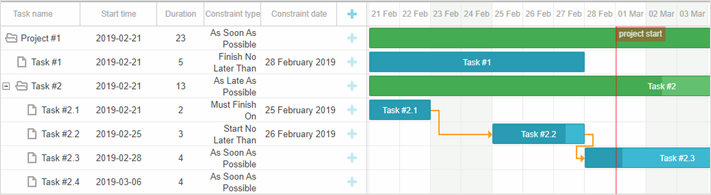
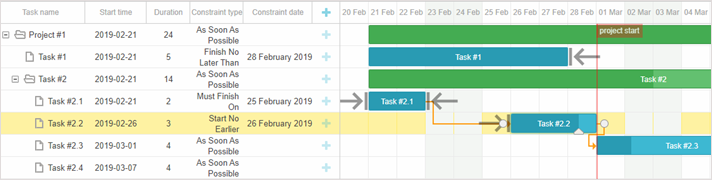
[update] docs for version 6.1

diff --git a/data/desktop/auto_scheduling.md b/data/desktop/auto_scheduling.md
@@ -61,7 +61,7 @@ gantt.config.auto_scheduling = true;
 
 ###Strict mode
 
-By default, tasks are rescheduled only when a new date violates the constraint. 
+By default, tasks are rescheduled only when a new date violates the constraint.
 In order to always reschedule tasks to the earliest possible date, use the property api/gantt_auto_scheduling_strict_config.md:
 
 ~~~js
@@ -90,7 +90,7 @@ If you need to recalculate the schedule starting from a particular task, pass th
 gantt.autoSchedule(taskId);
 ~~~
 
-###Checking whether a task is unscheduled 
+###Checking whether a task is unscheduled
 
 In case you need to check whether the task is unscheduled, use the api/gantt_isunscheduledtask.md method with the task object as an argument:
 
@@ -138,7 +138,7 @@ The list of available events is given below:
 ~~~js
 // before auto scheduling starts
 gantt.attachEvent("onBeforeAutoSchedule",function(taskId){
-    // any custom logic here   
+    // any custom logic here
     return true;
 });
 
@@ -175,7 +175,7 @@ Lag and lead times are special values that are used to create complex relations 
 
 Lag is a delay between tasks which are linked by a dependency. Lead is an overlap between tasks which are linked by a dependency.
 
-There can be two types of successor tasks: 
+There can be two types of successor tasks:
 
 - a task that can start before its predecessor task's end (task B starts before task A is finished)
 
@@ -194,21 +194,21 @@ By default, it's implied that the lag value of each dependency link is set as 0.
 
 ###Editing link values from UI
 
-Gantt doesn't provide a built-in UI for editing lag or any other properties of the link. However, you can implement it manually by following the recommendations given in the 
+Gantt doesn't provide a built-in UI for editing lag or any other properties of the link. However, you can implement it manually by following the recommendations given in the
 [related chapter](desktop/crud_dependency.md#editinglinkvaluesfromui).
 
 {{editor	http://snippet.dhtmlx.com/7c812e5bd		 Edit-lag Popup}}
 
 
-Time constraints for tasks
------------------------- 
-dhtmlxGantt provides the possibility to set additional time constraints for tasks. When time constraints are set for tasks, auto scheduling functionality works taking them into account. 
+## Time constraints for tasks
+
+dhtmlxGantt provides the possibility to set additional time constraints for tasks.
 
 {{note Time constraints are applicable only to tasks and [milestones](desktop/milestones.md). Projects are not affected by them.}}
 
 ### Setting constraints via lightbox
 
-You can specify contraints for a task via the [**Contraint** control](desktop/constraint.md) in the lightbox of a task. 
+You can specify contraints for a task via the [**Contraint** control](desktop/constraint.md) in the lightbox of a task.
 
 ![Inbuilt datepicker for constraints](desktop/inbuilt_constraint_datepicker.png)
 
@@ -220,13 +220,13 @@ gantt.config.lightbox.sections = [
 ];
 ~~~
 
-### Setting constraints via inline editors 
+### Setting constraints via inline editors
 
 It is also possible to [specify separate columns for the type of constraint and its date in the grid](desktop/specifying_columns.md#timeconstraintsfortasks) and use inline editors to define constraints for tasks.
 
 ![Constraints columns](desktop/constraints_columns.png)
 
-Use the **constraint_type** and **constraint_date** columns' names, correspondingly. 
+Use the **constraint_type** and **constraint_date** columns' names, correspondingly.
 
 ~~~js
 var constraintTypeEditor = {
@@ -238,25 +238,25 @@ var constraintTypeEditor = {
 	]
 };
 
-var constraintDateEditor = { 
-	type: "date", 
-    map_to: "constraint_date", 
-    min: new Date(2019, 0, 1), 
-    max: new Date(2020, 0, 1) 
+var constraintDateEditor = {
+    type: "date",
+    map_to: "constraint_date",
+    min: new Date(2019, 0, 1),
+    max: new Date(2020, 0, 1)
 };
 
 gantt.config.columns = [
-	{ // previous column}, 
+	{ // previous column},
 	{
-	  name:"constraint_type", align:"center", width:100, template:function (task){
+		name:"constraint_type", align:"center", width:100, template:function (task){
 			return gantt.locale.labels[gantt.getConstraintType(task)];
 		}, resize: true, editor: constraintTypeEditor
 	},
 	{
-	  name:"constraint_date", align:"center", width:120, template:function (task) {
-       //template logic
-      }, 
-      resize: true, editor: constraintDateEditor
+		name:"constraint_date", align:"center", width:120, template:function (task) {
+		//template logic
+		},
+		resize: true, editor: constraintDateEditor
 	},
 	{ name: "add", width: 44 }
 ];
@@ -271,7 +271,7 @@ There are several types of time constraints:
 
 1\. **As soon as possible** - If this constraint is set to an independent task, the task starts at the same time that the project does. If this constraint is set to a dependent task, the task starts as soon as its predecessor tasks end.
 
-2\. **As late as possible** - If this constraint is set to an independent task, the task ends at the same time that the project does. If this constraint is set to a dependent task, the end of the task coincides with 
+2\. **As late as possible** - If this constraint is set to an independent task, the task ends at the same time that the project does. If this constraint is set to a dependent task, the end of the task coincides with
 the start of its immediate successor task.
 
 The other types of constraints affect tasks regardless of the their types (dependent or independent):
@@ -286,7 +286,7 @@ The other types of constraints affect tasks regardless of the their types (depen
 
 7\. **Must start on** – the task should start exactly on the specified date.
 
-8\. **Must finish on** – the task should end exactly on the specified date. 
+8\. **Must finish on** – the task should end exactly on the specified date.
 
 
 ### Strategies of projects planning
@@ -294,9 +294,11 @@ The other types of constraints affect tasks regardless of the their types (depen
 There are two strategies of planning tasks within a project: forward and backward planning. They are defined by combinations of configuration settings:
 
 - **gantt.config.schedule_from_end** - (*boolean*) defines the type of the planning strategy
-- **gantt.config.project_start** - (*Date*) the start date of a project; used as a start date of tasks by default, if forward planning is applied, *null* by default 
-- **gantt.config.project_end** - (*Date*) the end date of a project; used for the default time of tasks, if backward planning is used, *null* by default 
+- **gantt.config.project_start** - (*Date*) the start date of a project; used as a start date of tasks by default, if forward planning is applied, *null* by default
+- **gantt.config.project_end** - (*Date*) the end date of a project; used for the default time of tasks, if backward planning is used, *null* by default
 
+
+## Backward scheduling
 
 ####Forward planning
 
@@ -319,26 +321,33 @@ gantt.config.project_start = new Date(2019, 2, 1);
 
 ####Backward planning
 
-It is also possible to plan tasks from the end of the project, i.e. to apply backward planning. For this you need to set the **gantt.config.schedule_from_end** property to *true* and specify the end date of the project 
+Is also possible to plan tasks from the end of the project, i.e. to apply backward planning. For this you need to set the **gantt.config.schedule_from_end** property to *true* and specify the end date of the project
 via the **gantt.config.project_end** configuration option:
 
 ~~~js
-// backward planning of tasks is used
 gantt.config.schedule_from_end = true;
 gantt.config.project_end = new Date(2019, 4, 1);
 ~~~
 
-In this case tasks are planned *as late as possible*. The last task should end on the end date of the project.
+In this case tasks are planned as late as possible. The last task should end on the end date of the project.
 
 {{sample 02_extensions/20_backwards_scheduling.html}}
 
-When a user changes the date of a task by moving it with the mouse pointer or via the lightbox, the task automatically receives one of the two constraint types: either **start no earlier than+%start date%** or 
-**finish no later than+%end date%**, depending on the chosen planning strategy. So a task won't be moved to the start/end of the project automatically, which reproduces auto planning in MS Project.
 
+## Version compatibility
 
-### Backward compatibility
+When a user changes the date of a task by moving it with the mouse pointer or via the lightbox, the task automatically receives one of the two constraint types: either **start no earlier than+%start date%** or
+**finish no later than+%end date%**, depending on the chosen planning strategy.
 
-You can disable the time constraints feature to use the default auto scheduling functionality, by setting:
+Thus a task won't be scheduled to the earliest date if the later date is set from the UI. This may be confusing to a not prepared user especially since constraints are not displayed in the chart by default.
+
+You can enable constraint display using api/gantt_addtasklayer.md method.
+
+{{sample 02_extensions/19_constraints_scheduling.html}}
+
+This behavior differs from the auto scheduling logic of gantt prior to **v6.1** and is considered to be correct, since it's the same way auto planning works in MS Project.
+
+If that is not what you want, you can switch back to pre-6.1 auto scheduling by disabling constraints:
 
 ~~~js
 gantt.config.auto_scheduling_compatibility = true;
@@ -349,7 +358,3 @@ gantt.config.auto_scheduling_compatibility = true;
 	api/gantt_auto_scheduling_config.md
 
 @edition:pro
-
-@todo: 
-- update the image for columns types<br>
-- Backward compatibility is repeated in migration

diff --git a/data/desktop/tooltips.md b/data/desktop/tooltips.md
@@ -97,7 +97,7 @@ adds a tooltip for the specified Gantt element. It is a more simplified version 
 	and returns a string with a template.
 - **global** - (*boolean*) optional, defines whether the module listens to mouse events on the whole page (*true*) or only inside a gantt element (*false*). By default the option is set to *false*. 
 
-#### gantt.ext.tooltips.detach() 
+<h4 id="detach">gantt.ext.tooltips.detach()</h4> 
 
 removes tooltip. As a parameter the method takes:
 
@@ -107,23 +107,24 @@ removes tooltip. As a parameter the method takes:
 Tooltips for different elements
 -------------------------
 
-By default, tooltips are added just to the Gantt tasks, but you can also set tooltips for any other Gantt element. There are two corresponding methods in the tooltip API for this purpose:
+By default, tooltips are added just to the Gantt tasks, but you can also set tooltips for any other Gantt element. For example, for a resource marker:
+
+![Resource marker tooltip](desktop/resource_marker_tooltip.png)
+
+
+There are two corresponding methods in the tooltip API for this purpose:
 
 - the [**gantt.ext.tooltips.tooltipFor()**](#tooltipfor) method 
 
 For example, this is how you can add tooltips for cells of the timeline scale:
 
 ~~~js
-gantt.ext.tooltips.tooltipFor({
-  selector:".gantt_scale_cell",
-  html:function (event, node) {
-    var relativePosition = gantt.utils.dom.getRelativeEventPosition(event, gantt.$task_scale);
-    return gantt.templates.task_date(gantt.dateFromPos(relativePosition.x));
-  }
-});
+var domHelper = gantt.utils.dom;
+var pos = domHelper .getRelativeEventPosition(event, gantt.$task_scale);
+return gantt.templates.task_date(gantt.dateFromPos(pos.x));
 ~~~
 
-{{sample 02_extensions/19_tooltip_api.html}}
+{{sample 02_extensions/22_tooltip_api.html}}
 
 A tooltip added in this way will follow the mouse pointer and use the settings *api/gantt_tooltip_offset_x_config.md*, *api/gantt_tooltip_offset_y_config.md*, *api/gantt_tooltip_timeout_config.md*,
 api/gantt_tooltip_hide_timeout_config.md.
@@ -137,14 +138,14 @@ Customization of tooltip behavior
 
 There is a possibility to modify the default behavior of tooltip. It can be achieved by removing the default tooltip handler and adding a custom one:
 
-- Remove the built-in tooltip handler from tasks with the **gantt.ext.tooltips.detach** method:
+- Remove the built-in tooltip handler from tasks with the [**gantt.ext.tooltips.detach**](#detach) method:
 
 ~~~js
 // remove the built-in tooltip handler from tasks
 gantt.ext.tooltips.detach("["+gantt.config.task_attribute+"]:not(.gantt_task_row)");
 ~~~
 
-- Add the desired tooltip behavior via the **gantt.ext.tooltips.tooltipFor()** method. In the example below tooltip is shown only above the table:
+- Add the desired tooltip behavior via the [**gantt.ext.tooltips.attach()**](#attach) method. In the example below tooltip is shown only above the table:
 
 ~~~js
 gantt.ext.tooltips.tooltipFor({
@@ -218,7 +219,3 @@ gantt.parse(demo_tasks);
 ~~~
 
 
-@todo:
-- reduce example of tooltips for different elements<br>
-- add example with tooltip for a resource panel and for the attach() method?<br>
-- should info from the last section be moved to migration?

diff --git a/data/migrating.md b/data/migrating.md
@@ -37,7 +37,7 @@ gantt.config.auto_scheduling_compatibility = true;
 
 ### Tooltips displaying area
 
-Before version 6.1 tooltips have been displayed only inside the timeline area. After v6.1 release tooltips displaying isn't limited, and a tooltip follows the movement of the mouse pointer.
+Before version 6.1 [tooltips](desktop/tooltips.md) have been displayed only inside the timeline area. After v6.1 release tooltips displaying isn't limited, and a tooltip follows the movement of the mouse pointer.
 
 If necessary, you can restore the previous behavior by using the code below before initialization of Gantt:
 
@@ -284,4 +284,3 @@ The id of the parent task can be accessed as **gantt.getTask(task_id).parent**. 
 
 @spellcheck: btn
 
-@todo: check 6.1 section

diff --git a/data/api/gantt_ajax_other.md b/data/api/gantt_ajax_other.md
@@ -166,7 +166,7 @@ will be converted into a string that looks like `id=1&text=My%20Task&users=%5B1%
 
 <h3 id="promises">Promises</h3>
 
-dhtmlxGantt supports usage of promises in IE8+ versions. For work with promises Gantt uses the [Bluebird](https://github.com/petkaantonov/bluebird) promise library. 
+dhtmlxGantt supports usage of promises (including IE8+). For work with promises Gantt uses the [Bluebird](https://github.com/petkaantonov/bluebird) promise library. 
 To create a promise, you need to use the following constructor:
 
 ~~~js

diff --git a/data/desktop/resource_management.md b/data/desktop/resource_management.md
@@ -235,8 +235,6 @@ gantt.attachEvent("onLightboxSave", function(id, task, is_new){
 
 You can [get more information in the related article](desktop/working_time.md#assigningcalendartoresource).
 
-Besides assigning calendars to resources, it is possible to [assign a working calendar to the whole project](desktop/working_time.md#assigningcalendartoproject).
-
 
 Balancing resource load
 ------------------------
@@ -526,4 +524,4 @@ gantt.getResourceAssignments("6");
 
 @edition:pro
 
-@todo: check the link to working calendars
+

diff --git a/data/desktop/server_side.md b/data/desktop/server_side.md
@@ -54,7 +54,7 @@ Check the detailed info in the next section.
 
 While creating a DataProcessor via the API method **createDataProcessor()** you have several possible options for passing parameters. 
 	
-1\. Use one of the predefined request schemas:
+1\. Use one of the predefined request modes, as in:
 
 ~~~js
 var dp = gantt.createDataProcessor({

diff --git a/data/desktop/specifying_columns.md b/data/desktop/specifying_columns.md
@@ -412,6 +412,4 @@ Styling
 
 For information on styling cells of the grid, read desktop/styling_guide.md#stylinggrid.
 
-@todo:
-check and complete info about constraint related columns
 

diff --git a/data/desktop/initializing_gantt_chart.md b/data/desktop/initializing_gantt_chart.md
@@ -237,4 +237,3 @@ To correctly display a Gantt chart in the full-screen mode in different browsers
 ~~~
 
 
-@todo: check the section about adding source files into the project

diff --git a/data/desktop/constraint.md b/data/desktop/constraint.md
@@ -50,5 +50,3 @@ The following properties are mostly important and commonly set for the **constra
 
 
 @edition:pro
-
-@todo: check for correction, add missing info

diff --git a/data/desktop/baselines.md b/data/desktop/baselines.md
@@ -265,6 +265,3 @@ var isVisible = gantt.ext.overlay.isOverlayVisible(id);
 ~~~
 
 @edition: pro
-
-@todo:
-- check the extra overlay section

diff --git a/data/desktop/working_time.md b/data/desktop/working_time.md
@@ -487,5 +487,3 @@ gantt.batchUpdate(function(){
 });
 ~~~
 
-@todo:
-check the Assigning Calendar to Project section
